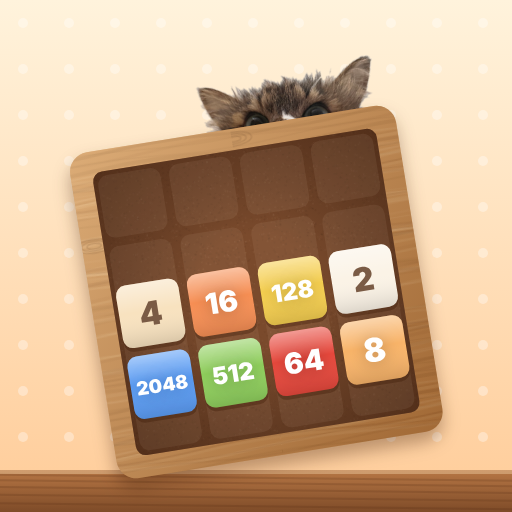
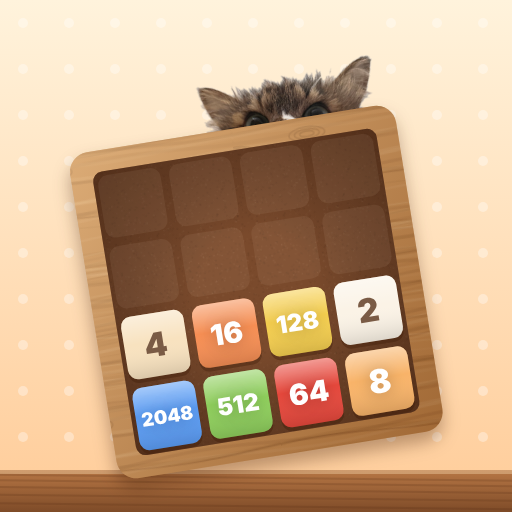
回転2048: タイルがマス目より半マス上にずれていたのを修正
Claude-Session: https://claude.ai/code/session_018pgCByZw2t6dG7T6kC24JF

Changed region(s): [[0.2188, 0.4688, 0.8125, 0.9062]]

diff --git a/games/rolling-2048/index.html b/games/rolling-2048/index.html
@@ -556,7 +556,7 @@ function drawScene(g, Ly, k, still) {
   g.fillStyle = 'rgba(255,230,200,.07)';
   for (let r = 0; r < N; r++) for (let c = 0; c < N; c++) { rr(g, -inner / 2 + c * cs + (cs - ts) / 2, -inner / 2 + r * cs + (cs - ts) / 2, ts, ts, ts * 0.16); g.fill(); }
   g.save(); rr(g, -inner / 2, -inner / 2, inner, inner, side * 0.03); g.clip();
-  const px = c => -inner / 2 + (c + 0.5) * cs, py = y => -inner / 2 + (y + 0.5) * cs - ts / 2;
+  const px = c => -inner / 2 + (c + 0.5) * cs, py = y => -inner / 2 + (y + 0.5) * cs; // tile centers
   for (const gh of ghosts) drawTile(g, px(gh.c), py(lerp(gh.ty, gh.y, gh.life)), ts * (0.6 + 0.4 * gh.life), gh.v, 1, 1, gh.life);
   for (const tl of tiles) {
     const y = still ? tl.y : tl.py + (tl.y - tl.py) * k;
